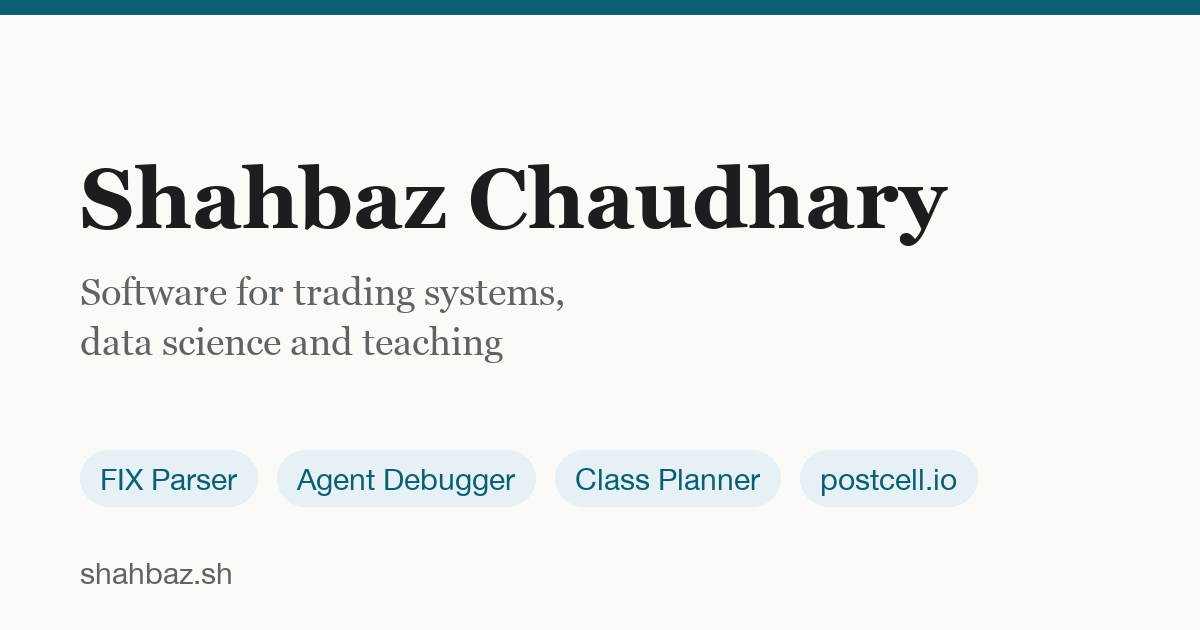
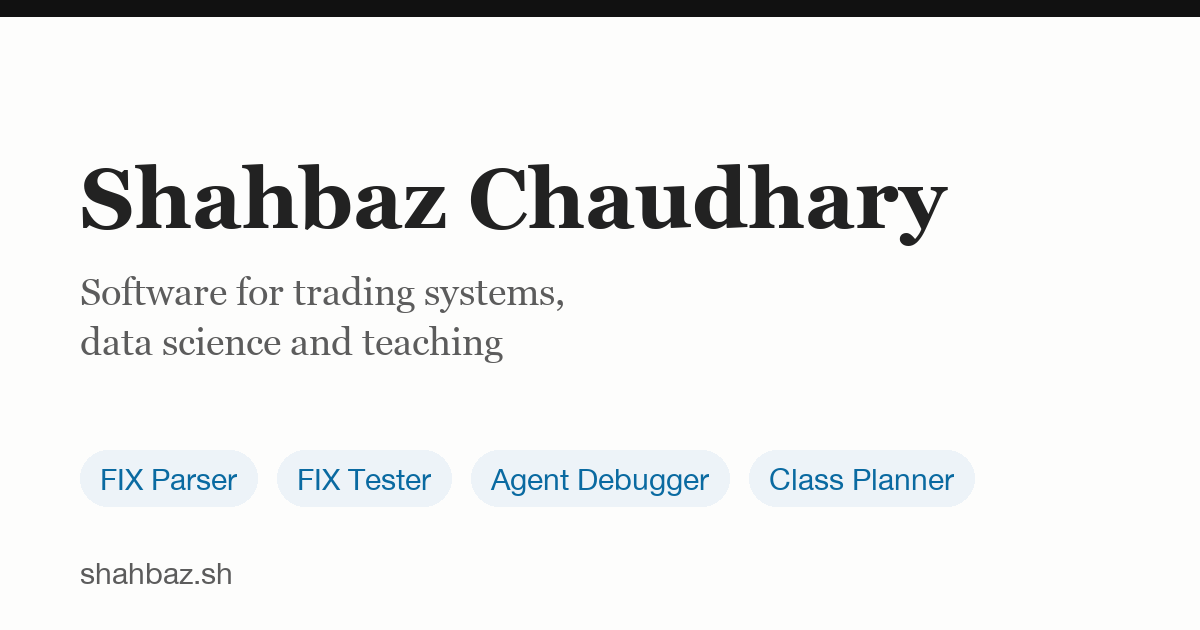
Colours closer to the old theme: near-white background, black top strip and footer
Share image redrawn in the same colours.

Changed region(s): [[0.0, 0.0, 1.0, 0.0302], [0.2467, 0.7238, 0.8017, 0.7841], [0.0925, 0.754, 0.2158, 0.7841]]

diff --git a/css/site.css b/css/site.css
@@ -1,13 +1,14 @@
 /* Site styles. No web fonts, no frameworks: system fonts keep pages fast. */
 :root {
-  --bg: #fbfaf7;
+  --bg: #fdfdfc;
   --surface: #ffffff;
-  --text: #1d1d1f;
-  --muted: #5f6368;
-  --line: #e4e1da;
-  --accent: #0b5f75;
-  --accent-soft: #e5f1f4;
-  --code-bg: #f3f1ec;
+  --text: #222222;
+  --muted: #5c5c5c;
+  --line: #e6e6e6;
+  --accent: #0a6aa1;
+  --accent-soft: #edf3f8;
+  --code-bg: #f5f5f5;
+  --ink: #111111; /* the black strip and footer of the old theme */
   --serif: "Iowan Old Style", "Charter", "Georgia", "Times New Roman", serif;
   --sans: -apple-system, BlinkMacSystemFont, "Segoe UI", Roboto, "Helvetica Neue", Arial, sans-serif;
   --mono: ui-monospace, "SF Mono", Menlo, Consolas, "Liberation Mono", monospace;
@@ -19,9 +20,10 @@
     --text: #e8e6e1;
     --muted: #a3a7ad;
     --line: #2e3238;
-    --accent: #6cc4dc;
-    --accent-soft: #1d3138;
+    --accent: #6cb6e6;
+    --accent-soft: #1c2c38;
     --code-bg: #1f2227;
+    --ink: #0b0c0e;
   }
 }
 
@@ -32,6 +34,7 @@ body {
   background: var(--bg);
   color: var(--text);
   font: 17px/1.6 var(--sans);
+  border-top: 8px solid var(--ink);
 }
 a { color: var(--accent); }
 img, svg, video { max-width: 100%; height: auto; }
@@ -115,7 +118,9 @@ pre { background: var(--code-bg); padding: 1rem 1.1rem; border-radius: 8px; over
 .page { max-width: 46rem; padding-bottom: 2rem; }
 
 /* Footer */
-.site-footer { margin-top: 4rem; border-top: 1px solid var(--line); padding: 1.5rem 0 2.5rem; color: var(--muted); font-size: .9rem; }
+.site-footer { margin-top: 4rem; background: var(--ink); padding: 1.75rem 0 2.5rem; color: #c8c8c8; font-size: .9rem; }
+.site-footer .social a { color: #c8c8c8; }
+.site-footer .social a:hover { color: #fff; }
 .site-footer .wrap { display: flex; flex-wrap: wrap; justify-content: space-between; gap: 1rem; align-items: center; }
 .site-footer p { margin: 0; }
 
